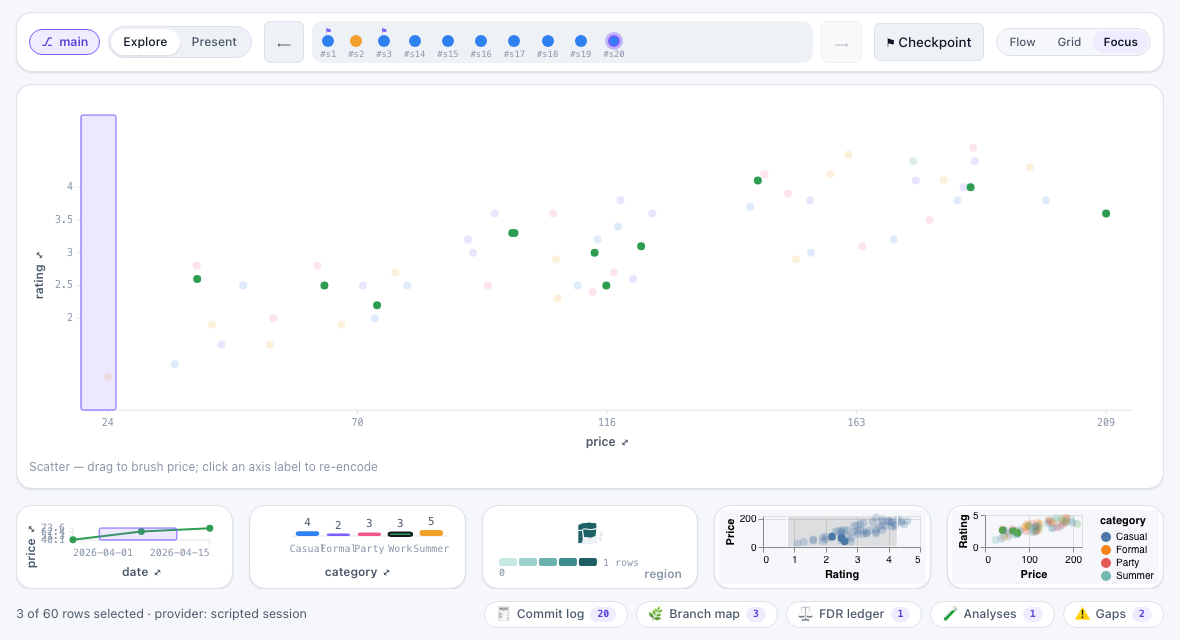
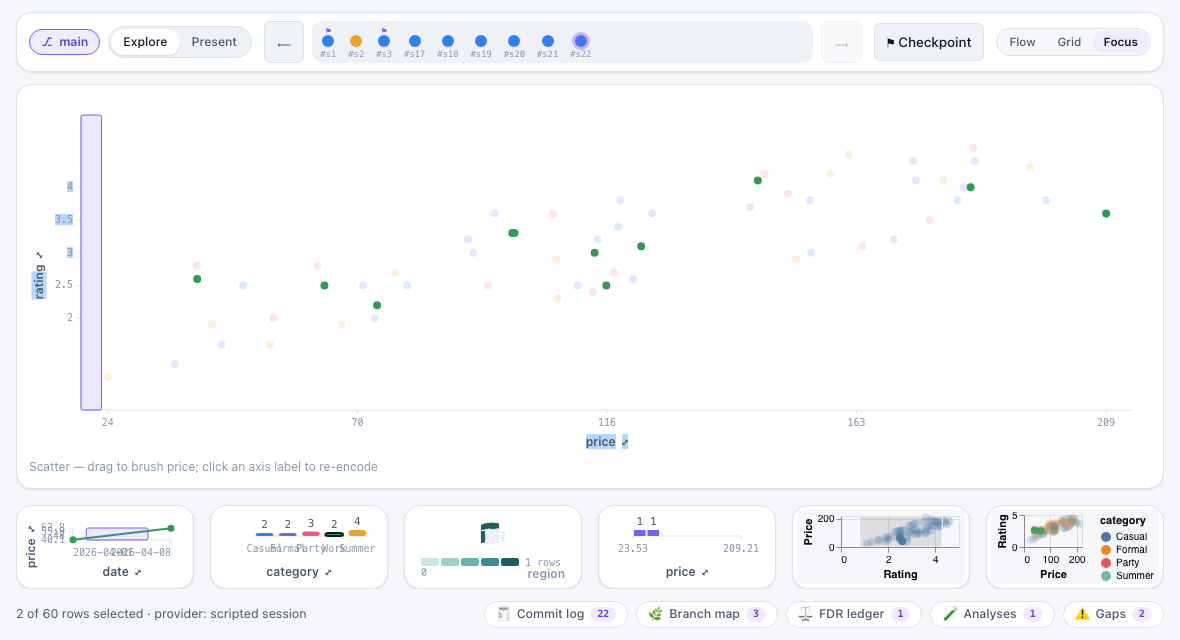
feat(gallery): the histogram rides in as the 6th cell — the build-your-own-chart proof scene
- scripted.ts declares the 'histogram' view (actor + an x-channel encoding
  on price) so its bucket-brush emissions land real commits.
- entry.tsx is the HOST side of the transform-ownership rule: fixed
  equal-width edges over ALL rows via src/data equalWidthBins, counts
  recomputed under the other views' clauses via recountBins (the VizBar
  recompute pattern) — the chart receives ready bins.
- smoke: a new browser test drives all three histogram gestures for real —
  drag across buckets → ONE edge-snapped interval commit that crossfilters
  (the scatter dims), click a bar → exactly one selected bucket, click it
  again → the cleared interval releases the filter (dims return to
  baseline) — plus zero page/shell scroll throughout; the mobile carousel
  now counts 7 dots. One EXISTING assertion aligned: the viewBox==CSS-box
  check now uses the FIX-FILL suite's ±1.5px tolerance, because ChartFrame
  measures offsetWidth (a rounded integer) while the test's rect is
  fractional — the exact floor-string compare flaked on the first
  non-integer cell width the 7th cell produced.
- VizHistogram: edge-tick thinning is now WIDTH-aware (a narrow cockpit
  cell keeps first+last instead of 9 colliding labels; a stepped label that
  would crowd the always-shown final edge is dropped) — caught by the
  refreshed screenshot, pinned by two unit tests.
- Screenshots refreshed once under UPDATE_SCREENSHOTS=1 (all shots; two new:
  gallery-histogram.png, gallery-histogram-brushed.png).

diff --git a/ui/gallery/smoke.test.ts b/ui/gallery/smoke.test.ts
@@ -17,6 +17,10 @@
  *     the other charts; the MAP's region click lands a REAL point commit,
  *     clicking the selected region again clears it; the line's y axis
  *     re-encodes through its restricted picker (x = date columns only);
+ *   - PRIM-1, the primitives-built HISTOGRAM as the 6th cell: HOST-computed
+ *     buckets (src/data equalWidthBins/recountBins — the chart never bins), a
+ *     bucket-edge-snapped interval brush, click-a-bar → one bucket,
+ *     click-again → cleared — three REAL commits, crossfiltering both ways;
  *   - a report chip opens a LARGE frosted-glass modal hosting the panel, with
  *     scrolling allowed only INSIDE the modal body;
  *   - ⚑ opens the checkpoint naming modal; Enter lands a REAL checkpoint;
@@ -111,12 +115,15 @@ describe.skipIf(!existsSync(CHROME))('vizfootprint-ui gallery smoke (real headle
   });
 
   it('every layer renders against the scripted session (charts, compact bar, badged chips)', async () => {
-    // fill-height charts — all FOUR
+    // fill-height charts — all FIVE first-party cells
     expect(await page.locator('svg.vzf-scatter circle.vzf-dot').count()).toBe(60);
     expect(await page.locator('svg.vzf-bar rect.vzf-barrect').count()).toBe(5);
     expect(await page.locator('svg.vzf-line path.vzf-line-path').count()).toBe(5); // one per category series
     expect(await page.locator('svg.vzf-line circle.vzf-line-dot').count()).toBeGreaterThan(0);
     expect(await page.locator('svg.vzf-map path.vzf-region').count()).toBe(5);
+    // the histogram cell (built from the public primitives): 8 HOST-computed buckets
+    expect(await page.locator('svg.vzf-histogram rect.vzf-histbar').count()).toBe(8);
+    await maybeElementShot(page, '[data-chart="histogram"]', path.join(SHOTS, 'gallery-histogram.png'));
     // the uninhabited region is HONESTLY empty: neutral fill class + no-rows tooltip
     const isles = page.locator('svg.vzf-map [data-region="Outer Isles"]');
     expect((await isles.getAttribute('class')) ?? '').toContain('vzf-region-empty');
@@ -148,7 +155,13 @@ describe.skipIf(!existsSync(CHROME))('vizfootprint-ui gallery smoke (real headle
     expect(chart.frameH, 'the chart band must be tall (fills remaining height), not the old fixed 340px').toBeGreaterThan(340);
     expect(Math.abs(chart.svgH - chart.frameH)).toBeLessThanOrEqual(2);
     expect(Math.abs(chart.svgW - chart.frameW)).toBeLessThanOrEqual(2);
-    expect(chart.viewBox).toBe(`0 0 ${Math.floor(chart.frameW)} ${Math.floor(chart.frameH)}`);
+    // viewBox == CSS box 1:1 — within a pixel: ChartFrame measures offsetWidth
+    // (a ROUNDED integer) while the rect here is fractional, so an exact
+    // floor-string compare would flake on any non-integer cell width (the
+    // FIX-FILL suite pins the same invariant with the same tolerance)
+    const [, , vbW, vbH] = (chart.viewBox ?? '0 0 0 0').split(' ').map(Number);
+    expect(Math.abs(vbW! - chart.frameW)).toBeLessThanOrEqual(1.5);
+    expect(Math.abs(vbH! - chart.frameH)).toBeLessThanOrEqual(1.5);
   }, 30_000);
 
   it('an axis click opens the encoding picker; picking a column lands a REAL reencode', async () => {
@@ -174,6 +187,65 @@ describe.skipIf(!existsSync(CHROME))('vizfootprint-ui gallery smoke (real headle
     const yLabel = await page.locator('svg.vzf-scatter [data-axis-channel="y"] .vzf-axis-label').textContent();
     expect(yLabel ?? '').toContain('price');
     await maybeScreenshot(page, { path: path.join(SHOTS, 'gallery-reencoded.png'), fullPage: false });
+  }, 30_000);
+
+  it('the histogram (the primitives-built 6th cell) brushes buckets, clicks one, and click-again clears — all REAL commits', async () => {
+    const commits = async (): Promise<number> =>
+      Number(await page.locator('[data-report="commits"] .vzf-report-badge').textContent());
+    const scatterDimBefore = await page.locator('svg.vzf-scatter circle.vzf-dim').count();
+
+    // 1) drag across the upper-price buckets → ONE interval commit, snapped to
+    //    the host-computed bucket edges; the OTHER charts crossfilter
+    const c0 = await commits();
+    const box = (await page.locator('svg.vzf-histogram').boundingBox())!;
+    const midY = box.y + box.height / 2;
+    await page.mouse.move(box.x + box.width * 0.55, midY);
+    await page.mouse.down();
+    await page.mouse.move(box.x + box.width * 0.92, midY, { steps: 8 });
+    await page.mouse.up();
+    await page.waitForFunction(
+      (n) => Number(document.querySelector('[data-report="commits"] .vzf-report-badge')?.textContent) > n,
+      c0,
+      { timeout: 8000 },
+    );
+    // the scatter dims the rows outside the bucket range (crossfilter into it) …
+    expect(await page.locator('svg.vzf-scatter circle.vzf-dim').count()).toBeGreaterThan(scatterDimBefore);
+    // … and the covered buckets wear the selection outline (derived from the fold)
+    await page.waitForSelector('svg.vzf-histogram rect.vzf-histbar.vzf-selected');
+    expect(await page.locator('svg.vzf-histogram rect.vzf-histbar.vzf-selected').count()).toBeGreaterThanOrEqual(2);
+    await maybeScreenshot(page, { path: path.join(SHOTS, 'gallery-histogram-brushed.png'), fullPage: false });
+
+    // 2) click ONE bar → exactly that bucket's interval replaces the range
+    const c1 = await commits();
+    const bar = (await page.locator('svg.vzf-histogram rect.vzf-hist-hit').nth(2).boundingBox())!;
+    await page.mouse.click(bar.x + bar.width / 2, bar.y + bar.height / 2);
+    await page.waitForFunction(
+      (n) => Number(document.querySelector('[data-report="commits"] .vzf-report-badge')?.textContent) > n,
+      c1,
+      { timeout: 8000 },
+    );
+    await page.waitForFunction(
+      () => document.querySelectorAll('svg.vzf-histogram rect.vzf-histbar.vzf-selected').length === 1,
+      undefined,
+      { timeout: 8000 },
+    );
+
+    // 3) click the SAME bar again → the CLEARED interval; the filter releases
+    const c2 = await commits();
+    await page.mouse.click(bar.x + bar.width / 2, bar.y + bar.height / 2);
+    await page.waitForFunction(
+      (n) => Number(document.querySelector('[data-report="commits"] .vzf-report-badge')?.textContent) > n,
+      c2,
+      { timeout: 8000 },
+    );
+    await page.waitForFunction(
+      () => document.querySelectorAll('svg.vzf-histogram rect.vzf-histbar.vzf-selected').length === 0,
+      undefined,
+      { timeout: 8000 },
+    );
+    // the crossfilter released with it — the scatter's dims return to baseline
+    expect(await page.locator('svg.vzf-scatter circle.vzf-dim').count()).toBe(scatterDimBefore);
+    await expectNoPageOrShellScroll(page);
   }, 30_000);
 
   it('the line time brush lands a REAL date-interval commit and crossfilters the other charts', async () => {
@@ -507,8 +579,9 @@ describe.skipIf(!existsSync(CHROME))('vizfootprint-ui gallery smoke (real headle
     });
     expect(strip.snapType, 'the charts band is a snap carousel on mobile').toContain('x');
     expect(strip.dotsDisplay, 'dot indicators show on mobile').not.toBe('none');
-    // scatter · line · bar · map · vl (the bridge cell) · the AGENT-AUTHORED chart (RP-3) — all six ride the carousel
-    expect(strip.dotCount).toBe(6);
+    // scatter · line · bar · map · histogram · vl (the bridge cell) · the
+    // AGENT-AUTHORED chart (RP-3) — all seven ride the carousel
+    expect(strip.dotCount).toBe(7);
     expect(Math.abs(strip.cellW - strip.stripW), 'each chart is one full-width page').toBeLessThanOrEqual(2);
     // both NEW charts are carousel cells with live content
     expect(await page.locator('[data-chart="line"] svg.vzf-line').count()).toBe(1);

diff --git a/ui/gallery/entry.tsx b/ui/gallery/entry.tsx
@@ -20,6 +20,7 @@ import {
   VizBar,
   VizLine,
   VizMap,
+  VizHistogram,
   TimeTravelBar,
   BranchMap,
   BranchPill,
@@ -42,6 +43,9 @@ import {
 import { buildScriptedSession } from './scripted.js';
 import { CATEGORIES, CATEGORY_COLORS, GALLERY_GEO, REGIONS, type GalleryRow } from './data.js';
 import { VegaLiteCell } from './VegaLiteCell.js';
+// the HOST side of the transform-ownership rule: this page (not the chart)
+// computes the histogram's buckets with src/data's pure binning helper
+import { equalWidthBins, recountBins } from '../../src/data/index.js';
 
 // The old page-local clause matcher is GONE (RP-1): the contract's
 // `selectionForView` derives the clause-addressable selection straight from
@@ -103,6 +107,27 @@ function App(props: { view: SessionView; rows: readonly GalleryRow[] }): JSX.Ele
         })),
     [rows, lineX, lineY, state.selections],
   );
+
+  // the histogram's field comes from ITS encoding fold; the HOST owns the bins
+  // (transform ownership): fixed equal-width edges over ALL rows — stable while
+  // its own brush lands — with counts recomputed under the OTHER views' clauses
+  // (the VizBar recompute pattern, via recountBins over the same edges).
+  const encH = state.encodings['histogram'] ?? {};
+  const histField = encH['x'] ?? 'price';
+  const histValueOf = (r: GalleryRow): number | string | null => {
+    const v = r[histField];
+    return typeof v === 'number' || typeof v === 'string' ? v : null;
+  };
+  const histEdges = useMemo(
+    () => equalWidthBins(rows.map(histValueOf).filter((v): v is number | string => v !== null), { buckets: 8 }),
+    // histValueOf closes only over histField — the deps carry its real inputs
+    [rows, histField],
+  );
+  const keepHist = keepPredicate(selFor('histogram'));
+  const histData = recountBins(
+    histEdges,
+    rows.filter(keepHist).map(histValueOf).filter((v): v is number | string => v !== null),
+  ).bins;
 
   // the map's value per region = the crossfiltered row COUNT (the canonical wiring)
   const keepMap = keepPredicate(selFor('map'));
@@ -263,6 +288,25 @@ function App(props: { view: SessionView; rows: readonly GalleryRow[] }): JSX.Ele
               height={height}
               selection={selFor('map')}
               onEmit={(e) => void view.emit('map', e, 'region click')}
+            />
+          ),
+        },
+        {
+          id: 'histogram',
+          weight: 2.5,
+          caption: `Histogram — drag across ${histField} buckets; click a bar for one bucket, again to clear`,
+          render: ({ width, height }) => (
+            <VizHistogram
+              viewId="histogram"
+              data={histData}
+              field={histField}
+              width={width}
+              height={height}
+              selection={selFor('histogram')}
+              columns={columns}
+              encoding={encH}
+              onEmit={(e) => void view.emit('histogram', e, 'histogram brush')}
+              onReencode={(v, c, f) => void view.reencode(v, c, f)}
             />
           ),
         },

diff --git a/ui/src/charts/VizHistogram.test.tsx b/ui/src/charts/VizHistogram.test.tsx
@@ -75,13 +75,21 @@ describe('VizHistogram — rendering host-owned bins', () => {
     expect(screen.getByRole('button', { name: 'price 25–50 (0 rows)' })).toBeTruthy();
   });
 
-  it('thins edge ticks past 12 edges but always keeps the last edge', () => {
+  it('thins edge ticks when there are many edges but always keeps the last edge', () => {
     const many: HistogramBinDatum[] = Array.from({ length: 30 }, (_, i) => ({ x0: i, x1: i + 1, count: 1 }));
     const { container } = render(<VizHistogram data={many} field="v" />);
     const ticks = Array.from(container.querySelectorAll('text.vzf-tick')).map((t) => t.textContent);
     expect(ticks.length).toBeLessThanOrEqual(12);
     expect(ticks[0]).toBe('0');
     expect(ticks[ticks.length - 1]).toBe('30');
+  });
+
+  it('thinning is width-aware: a narrow cockpit cell keeps only what fits (first + last always)', () => {
+    const eight: HistogramBinDatum[] = Array.from({ length: 8 }, (_, i) => ({ x0: i * 25, x1: (i + 1) * 25, count: 1 }));
+    const { container } = render(<VizHistogram data={eight} field="v" width={150} />);
+    const ticks = Array.from(container.querySelectorAll('text.vzf-tick')).map((t) => t.textContent);
+    // the mid label steps in but would crowd the always-shown final edge → dropped
+    expect(ticks).toEqual(['0', '200']);
   });
 
   it('skips a bin whose date edge cannot be parsed — never guessed into place', () => {
@@ -261,6 +269,18 @@ describe('VizHistogram — the re-encode affordance (both modes)', () => {
     fireEvent.click(dateOpt);
     expect(onReencode).toHaveBeenCalledWith('histogram', 'x', 'date');
     expect(screen.queryByRole('dialog')).toBeNull(); // picking closed it
+  });
+
+  it('without an encoding fold the picker highlights the field prop as current', () => {
+    const { container } = render(<VizHistogram data={BINS} field="price" columns={COLS} />);
+    fireEvent.click(container.querySelector('[data-axis-channel="x"]')!);
+    const priceOpt = document.querySelector('[data-vzf-modal="encoding-picker"] [data-field="price"]')!;
+    expect(priceOpt.getAttribute('aria-current')).toBe('true');
+  });
+
+  it('a custom className rides the svg root', () => {
+    const { container } = render(<VizHistogram data={BINS} field="price" className="my-hist" />);
+    expect(container.querySelector('svg.vzf-histogram.my-hist')).toBeTruthy();
   });
 
   it('a pointer-down on the axis label never starts (or clears) a brush', () => {

diff --git a/ui/src/charts/VizHistogram.tsx b/ui/src/charts/VizHistogram.tsx
@@ -194,12 +194,21 @@ export function VizHistogram(props: VizHistogramProps): JSX.Element {
 
   const { pickerChannel, openPicker, closePicker } = useReencodePicker(onReencodeRequest);
 
-  // edge ticks, thinned so labels never crowd (always keep the LAST edge)
+  // edge ticks, thinned by the pixels actually available (a narrow cockpit
+  // cell fits 2-3 labels, a wide one all of them). The LAST edge always shows;
+  // a stepped label that would crowd it is dropped instead (stepping already
+  // spaces the stepped labels ≥ labelW apart, so the final edge is the one
+  // remaining collision to guard).
   const edges: { pos: number; label: string }[] = [];
   if (geoms.length > 0) {
-    const step = Math.max(1, Math.ceil((geoms.length + 1) / 12));
-    for (let i = 0; i < geoms.length; i += step) edges.push({ pos: geoms[i]!.p0, label: edgeLabel(geoms[i]!.x0) });
+    const labelW = typeof geoms[0]!.x0 === 'string' ? 68 : 44; // date labels are wider than numbers
+    const fit = Math.max(2, Math.floor((width - PAD.l - PAD.r) / labelW));
+    const step = Math.max(1, Math.ceil((geoms.length + 1) / fit));
     const last = geoms[geoms.length - 1]!;
+    for (let i = 0; i < geoms.length; i += step) {
+      if (Math.abs(x(geoms[i]!.p0) - x(last.p1)) < labelW) continue; // would collide with the final edge label
+      edges.push({ pos: geoms[i]!.p0, label: edgeLabel(geoms[i]!.x0) });
+    }
     edges.push({ pos: last.p1, label: edgeLabel(last.x1) });
   }
 

diff --git a/ui/gallery/scripted.ts b/ui/gallery/scripted.ts
@@ -40,6 +40,10 @@ export async function buildScriptedSession(): Promise<ScriptedGallery> {
       bar: { actor: 'user', label: 'Category' },
       line: { actor: 'user', label: 'Price over time' },
       map: { actor: 'user', label: 'Rows by region' },
+      // the "build your own chart" proof cell: VizHistogram, composed from the
+      // PUBLIC primitives tier — declared like any first-party view so its
+      // bucket-brush emissions land real commits.
+      histogram: { actor: 'user', label: 'Price distribution' },
       // the vizfootprint-vega-lite bridge cell (RP-2): a THIRD-PARTY-shaped
       // renderer riding the SAME declared-view/crossfilter loop as the four
       // first-party charts above — must be declared here for its emissions
@@ -51,6 +55,7 @@ export async function buildScriptedSession(): Promise<ScriptedGallery> {
       { viewId: 'bar', chartKind: 'bar', channels: ['category'], initial: { category: 'category' } },
       { viewId: 'line', chartKind: 'line', channels: ['x', 'y', 'color'], initial: { x: 'date', y: 'price' } },
       { viewId: 'map', chartKind: 'map', channels: ['region'], initial: { region: 'region' } },
+      { viewId: 'histogram', chartKind: 'histogram', channels: ['x'], initial: { x: 'price' } },
     ],
     analyses: {
       correlation: correlationAnalysis({ x: 'price', y: 'rating' }),
